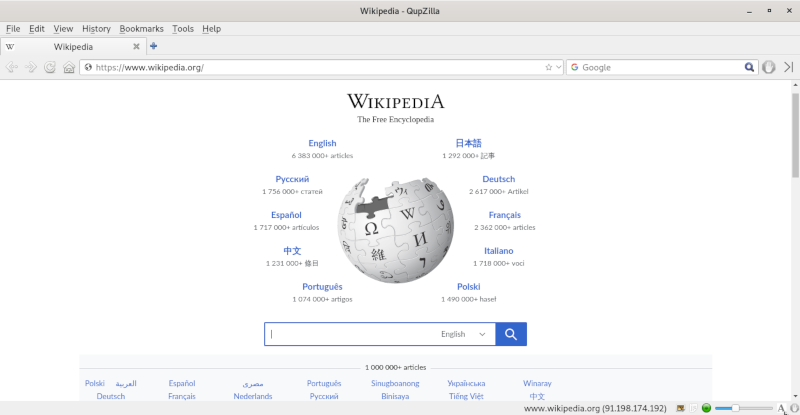
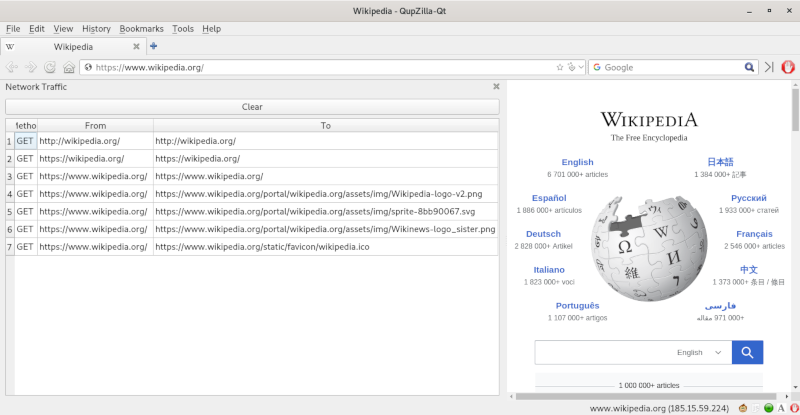
network traffic plugin

diff --git a/src/plugins/NetworkTraffic/src/NetworkTrafficSidebar.cpp b/src/plugins/NetworkTraffic/src/NetworkTrafficSidebar.cpp
@@ -1,0 +1,68 @@
+/* QupZilla-Qt (2023) http://github.com/dualword/QupZilla-Qt License:GNU GPL*/
+
+#include "networkurlinterceptor.h"
+#include "NetworkInterceptor.h"
+#include "networkmanager.h"
+#include "NetworkTrafficSidebar.h"
+#include "mainapplication.h"
+
+#include <QtWidgets>
+
+NetworkTrafficSidebar::NetworkTrafficSidebar(QObject* p) : SideBarInterface(p), w(0), net(0) {
+
+}
+
+NetworkTrafficSidebar::~NetworkTrafficSidebar() {
+
+}
+
+QString NetworkTrafficSidebar::title() const {
+    return tr("Network Traffic");
+}
+
+QAction* NetworkTrafficSidebar::createMenuAction() {
+    QAction* act = new QAction(tr("Network Traffic Sidebar"), this);
+    act->setCheckable(true);
+    return act;
+}
+
+QWidget* NetworkTrafficSidebar::createSideBarWidget(BrowserWindow* mainWindow) {
+    Q_UNUSED(mainWindow)
+
+	w = new QWidget();
+	net = new NetworkInterceptor(w);
+	QObject::connect(net, SIGNAL(newRequest(const QString&,const QString&,const QString&)),
+			SLOT(newRequest1(const QString&,const QString&,const QString&)));
+
+    QPushButton* btn = new QPushButton("Clear", w);
+    QObject::connect(btn, SIGNAL(clicked()), SLOT(clear()));
+    tbl = new QTableWidget(0, 3, w);
+	QStringList list;
+	list.push_back("Method");
+	list.push_back("From");
+	list.push_back("To");
+	tbl->setHorizontalHeaderLabels(list);
+	tbl->horizontalHeader()->setSectionResizeMode(QHeaderView::Interactive);
+
+    QVBoxLayout* l = new QVBoxLayout(w);
+    l->addWidget(btn);
+    l->addWidget(tbl);
+    w->setLayout(l);
+    return w;
+}
+
+void NetworkTrafficSidebar::clear() {
+	tbl->clearContents();
+	tbl->setRowCount(0);
+}
+
+void NetworkTrafficSidebar::newRequest1(const QString& s1, const QString& s2, const QString& s3){
+	tbl->insertRow(tbl->rowCount());
+	int row = tbl->rowCount()-1;
+	QTableWidgetItem *item = new QTableWidgetItem(tr("%1").arg(s1));
+	tbl->setItem(row, 0, item);
+	item = new QTableWidgetItem(tr("%1").arg(s2));
+	tbl->setItem(row, 1, item);
+	item = new QTableWidgetItem(tr("%1").arg(s3));
+	tbl->setItem(row, 2, item);
+}

diff --git a/src/plugins/NetworkTraffic/src/NetworkTraffic.cpp b/src/plugins/NetworkTraffic/src/NetworkTraffic.cpp
@@ -1,0 +1,55 @@
+/* QupZilla-Qt (2023) http://github.com/dualword/QupZilla-Qt License:GNU GPL*/
+#include "NetworkTraffic.h"
+
+#include "NetworkTrafficSidebar.h"
+#include "browserwindow.h"
+#include "webview.h"
+#include "pluginproxy.h"
+#include "mainapplication.h"
+#include "sidebar.h"
+#include "webhittestresult.h"
+
+#include <QTranslator>
+
+NetworkTraffic::NetworkTraffic() : QObject() {
+
+}
+
+//NetworkTraffic::~NetworkTraffic() {
+
+//}
+
+PluginSpec NetworkTraffic::pluginSpec()
+{
+    PluginSpec spec;
+    spec.name = "Network Traffic Plugin";
+    spec.info = "Network Traffic plugin";
+    spec.description = "Shows network traffic in side panel";
+    spec.version = "0.1.0";
+    spec.author = "";
+    spec.icon = QPixmap(":qupzilla.png");
+    spec.hasSettings = false;
+    return spec;
+}
+
+void NetworkTraffic::init(InitState state, const QString &settingsPath) {
+    Q_UNUSED(state)
+    mApp->plugins()->registerAppEventHandler(PluginProxy::MousePressHandler, this);
+    m_sideBar = new NetworkTrafficSidebar(this);
+    SideBarManager::addSidebar("networktraffic-sidebar", m_sideBar);
+}
+
+void NetworkTraffic::unload() {
+    SideBarManager::removeSidebar(m_sideBar);
+    delete m_sideBar;
+}
+
+bool NetworkTraffic::testPlugin() {
+    return (Qz::VERSION == QLatin1String(QUPZILLA_VERSION));
+}
+
+QTranslator* NetworkTraffic::getTranslator(const QString &locale) {
+    QTranslator* translator = new QTranslator(this);
+    translator->load(locale, ":/networrktrafficplugin/locale/");
+    return translator;
+}

diff --git a/src/plugins/NetworkTraffic/src/NetworkTraffic.h b/src/plugins/NetworkTraffic/src/NetworkTraffic.h
@@ -1,0 +1,33 @@
+/* QupZilla-Qt (2023) http://github.com/dualword/QupZilla-Qt License:GNU GPL*/
+
+#ifndef SRC_PLUGINS_NETWORKTRAFFIC_SRC_NETWORKTRAFFIC_H_
+#define SRC_PLUGINS_NETWORKTRAFFIC_SRC_NETWORKTRAFFIC_H_
+
+#include "plugininterface.h"
+#include <QLabel>
+#include <QMessageBox>
+#include <QVBoxLayout>
+#include <QPointer>
+
+class NetworkTrafficSidebar;
+
+class NetworkTraffic : public QObject, public PluginInterface {
+    Q_OBJECT
+    Q_INTERFACES(PluginInterface)
+    Q_PLUGIN_METADATA(IID "QupZilla.Browser.plugin.NetworkTraffic")
+
+public:
+	explicit NetworkTraffic();
+	//virtual ~NetworkTraffic();
+    PluginSpec pluginSpec();
+
+    void init(InitState state, const QString &settingsPath);
+    void unload();
+    bool testPlugin();
+    QTranslator* getTranslator(const QString &locale);
+
+private:
+    NetworkTrafficSidebar *m_sideBar = nullptr;
+};
+
+#endif /* SRC_PLUGINS_NETWORKTRAFFIC_SRC_NETWORKTRAFFIC_H_ */

diff --git a/src/plugins/NetworkTraffic/src/NetworkTrafficSidebar.h b/src/plugins/NetworkTraffic/src/NetworkTrafficSidebar.h
@@ -1,0 +1,33 @@
+/* QupZilla-Qt (2023) http://github.com/dualword/QupZilla-Qt License:GNU GPL*/
+
+#ifndef SRC_PLUGINS_NETWORKTRAFFIC_SRC_NETWORKTRAFFICSIDEBAR_H_
+#define SRC_PLUGINS_NETWORKTRAFFIC_SRC_NETWORKTRAFFICSIDEBAR_H_
+
+#include "sidebarinterface.h"
+
+class NetworkInterceptor;
+class QWidget;
+class QTableWidget;
+class QWebEngineUrlRequestInfo;
+
+class NetworkTrafficSidebar : public SideBarInterface {
+    Q_OBJECT
+
+public:
+	explicit NetworkTrafficSidebar(QObject* p = 0);
+	virtual ~NetworkTrafficSidebar();
+    QString title() const;
+    QAction* createMenuAction();
+    QWidget* createSideBarWidget(BrowserWindow* mainWindow);
+
+public slots:
+	void clear();
+	void newRequest1(const QString&, const QString&, const QString&);
+
+private:
+    QWidget* w;
+    QTableWidget* tbl;
+    NetworkInterceptor* net;
+};
+
+#endif /* SRC_PLUGINS_NETWORKTRAFFIC_SRC_NETWORKTRAFFICSIDEBAR_H_ */

diff --git a/src/plugins/NetworkTraffic/src/NetworkInterceptor.cpp b/src/plugins/NetworkTraffic/src/NetworkInterceptor.cpp
@@ -1,0 +1,19 @@
+/* QupZilla-Qt (2023) http://github.com/dualword/QupZilla-Qt License:GNU GPL*/
+
+#include "NetworkInterceptor.h"
+#include "networkurlinterceptor.h"
+#include "networkmanager.h"
+#include "mainapplication.h"
+
+NetworkInterceptor::NetworkInterceptor(QObject* p) : UrlInterceptor(p) {
+	mApp->networkManager()->installUrlInterceptor(this);
+}
+
+NetworkInterceptor::~NetworkInterceptor() {
+    mApp->networkManager()->removeUrlInterceptor(this);
+}
+
+void NetworkInterceptor::interceptRequest(QWebEngineUrlRequestInfo &info) {
+	if(info.firstPartyUrl().toString().length() <= 0) return;
+	emit newRequest(QString(info.requestMethod()), info.firstPartyUrl().toString(), info.requestUrl().toString());
+}

diff --git a/src/plugins/NetworkTraffic/src/NetworkInterceptor.h b/src/plugins/NetworkTraffic/src/NetworkInterceptor.h
@@ -1,0 +1,25 @@
+/* QupZilla-Qt (2023) http://github.com/dualword/QupZilla-Qt License:GNU GPL*/
+
+#ifndef SRC_PLUGINS_NETWORKTRAFFIC_SRC_NETWORKINTERCEPTOR_H_
+#define SRC_PLUGINS_NETWORKTRAFFIC_SRC_NETWORKINTERCEPTOR_H_
+
+#include "urlinterceptor.h"
+
+#include <QWebEngineUrlRequestInterceptor>
+
+class NetworkInterceptor : public UrlInterceptor {
+    Q_OBJECT
+
+public:
+	explicit NetworkInterceptor(QObject *p = Q_NULLPTR);
+	virtual ~NetworkInterceptor();
+
+public:
+    void interceptRequest(QWebEngineUrlRequestInfo &info) Q_DECL_OVERRIDE;
+
+signals:
+	void newRequest(const QString&, const QString&, const QString&);
+
+};
+
+#endif /* SRC_PLUGINS_NETWORKTRAFFIC_SRC_NETWORKINTERCEPTOR_H_ */

diff --git a/src/lib/network/networkurlinterceptor.cpp b/src/lib/network/networkurlinterceptor.cpp
@@ -34,8 +34,12 @@ void NetworkUrlInterceptor::interceptRequest(QWebEngineUrlRequestInfo &info)
 {
     QMutexLocker lock(&m_mutex);
 
-    if (m_sendDNT) info.setHttpHeader(QByteArrayLiteral("DNT"), QByteArrayLiteral("1"));
-	if(m_fparty && (info.firstPartyUrl().host() != info.requestUrl().host()) ) info.block(true);
+    if (m_sendDNT) {
+        info.setHttpHeader(QByteArrayLiteral("DNT"), QByteArrayLiteral("1"));
+    }
+	
+	if(m_fparty && (info.firstPartyUrl().host() != info.requestUrl().host()))
+		info.block(true);
 
     const QString host = info.firstPartyUrl().host();
 

diff --git a/src/lib/other/useragentmanager.cpp b/src/lib/other/useragentmanager.cpp
@@ -44,7 +44,7 @@ void UserAgentManager::loadSettings()
 
     if(rnd) {
     	QList<QString> arr;
-    	QFile file(DataPaths::currentProfilePath().append("/user-agent.txt"));
+    	QFile file(DataPaths::currentProfilePath().append(QDir::separator()).append("user-agent.txt"));
     	      if (file.open(QFile::ReadOnly)) {
     	          QTextStream stream(&file);
     	          QString line;

diff --git a/README.md b/README.md
@@ -8,6 +8,7 @@ Plugins:
  - Vim Plugin
  - Vertical Tabs
  - Tab Manager 
+ - Network Traffic Monitor
 
 License: GNU General Public License  
 Source code: https://github.com/dualword/Qupzilla-Qt/  
